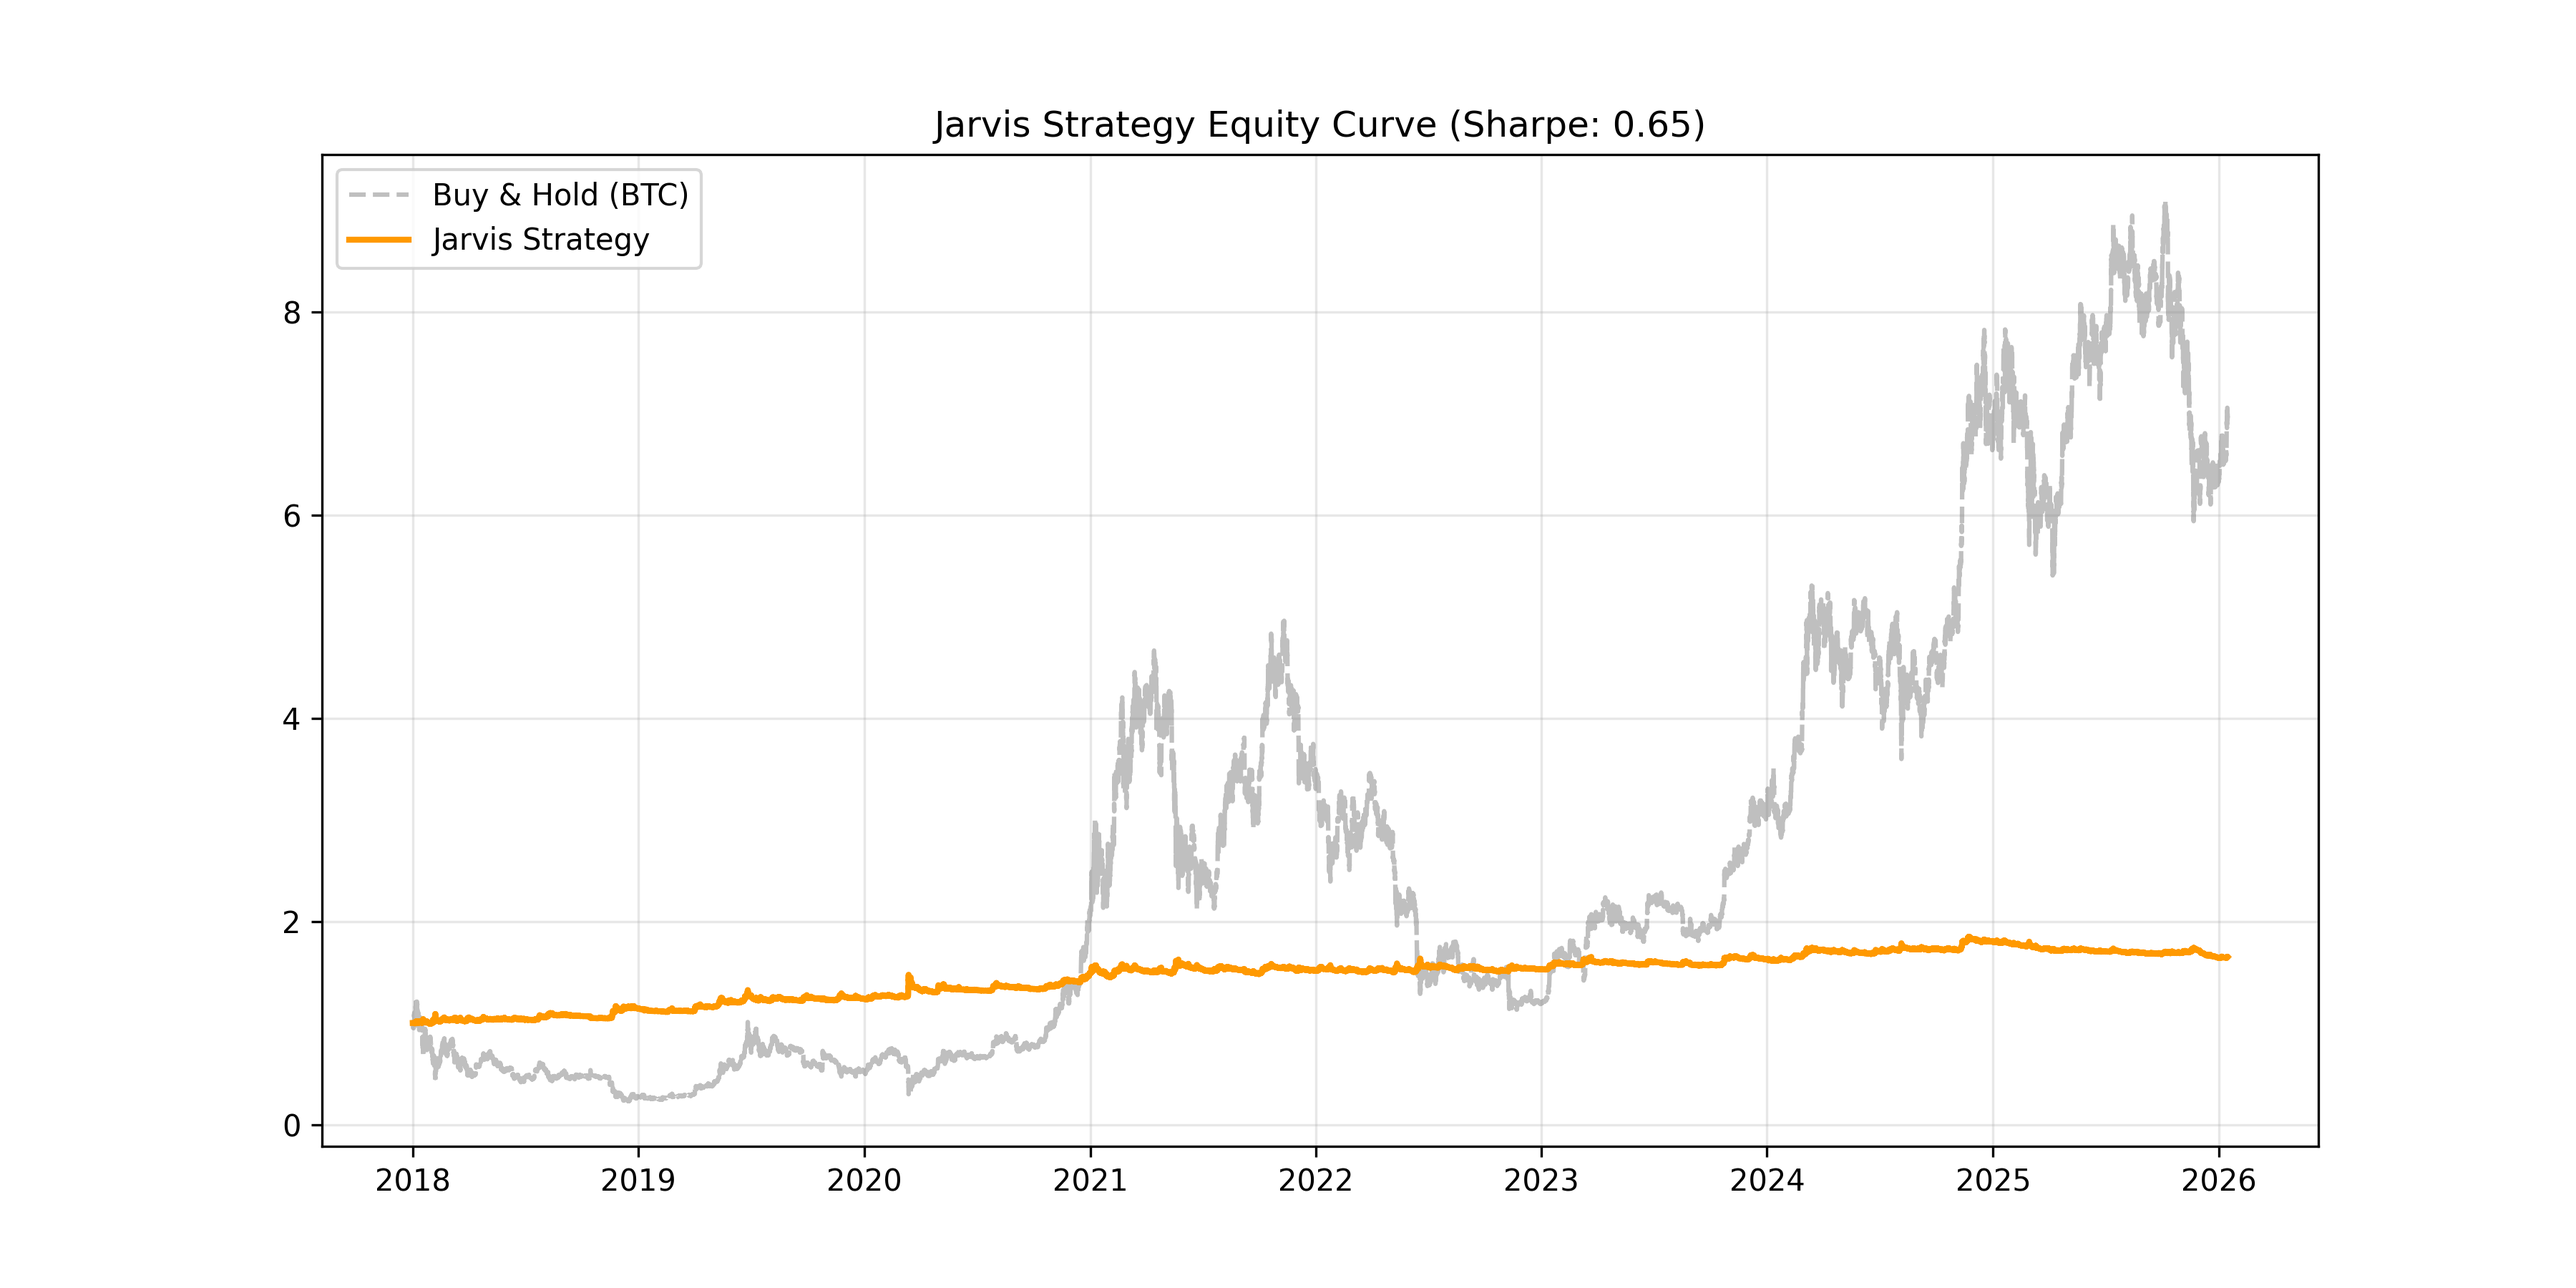
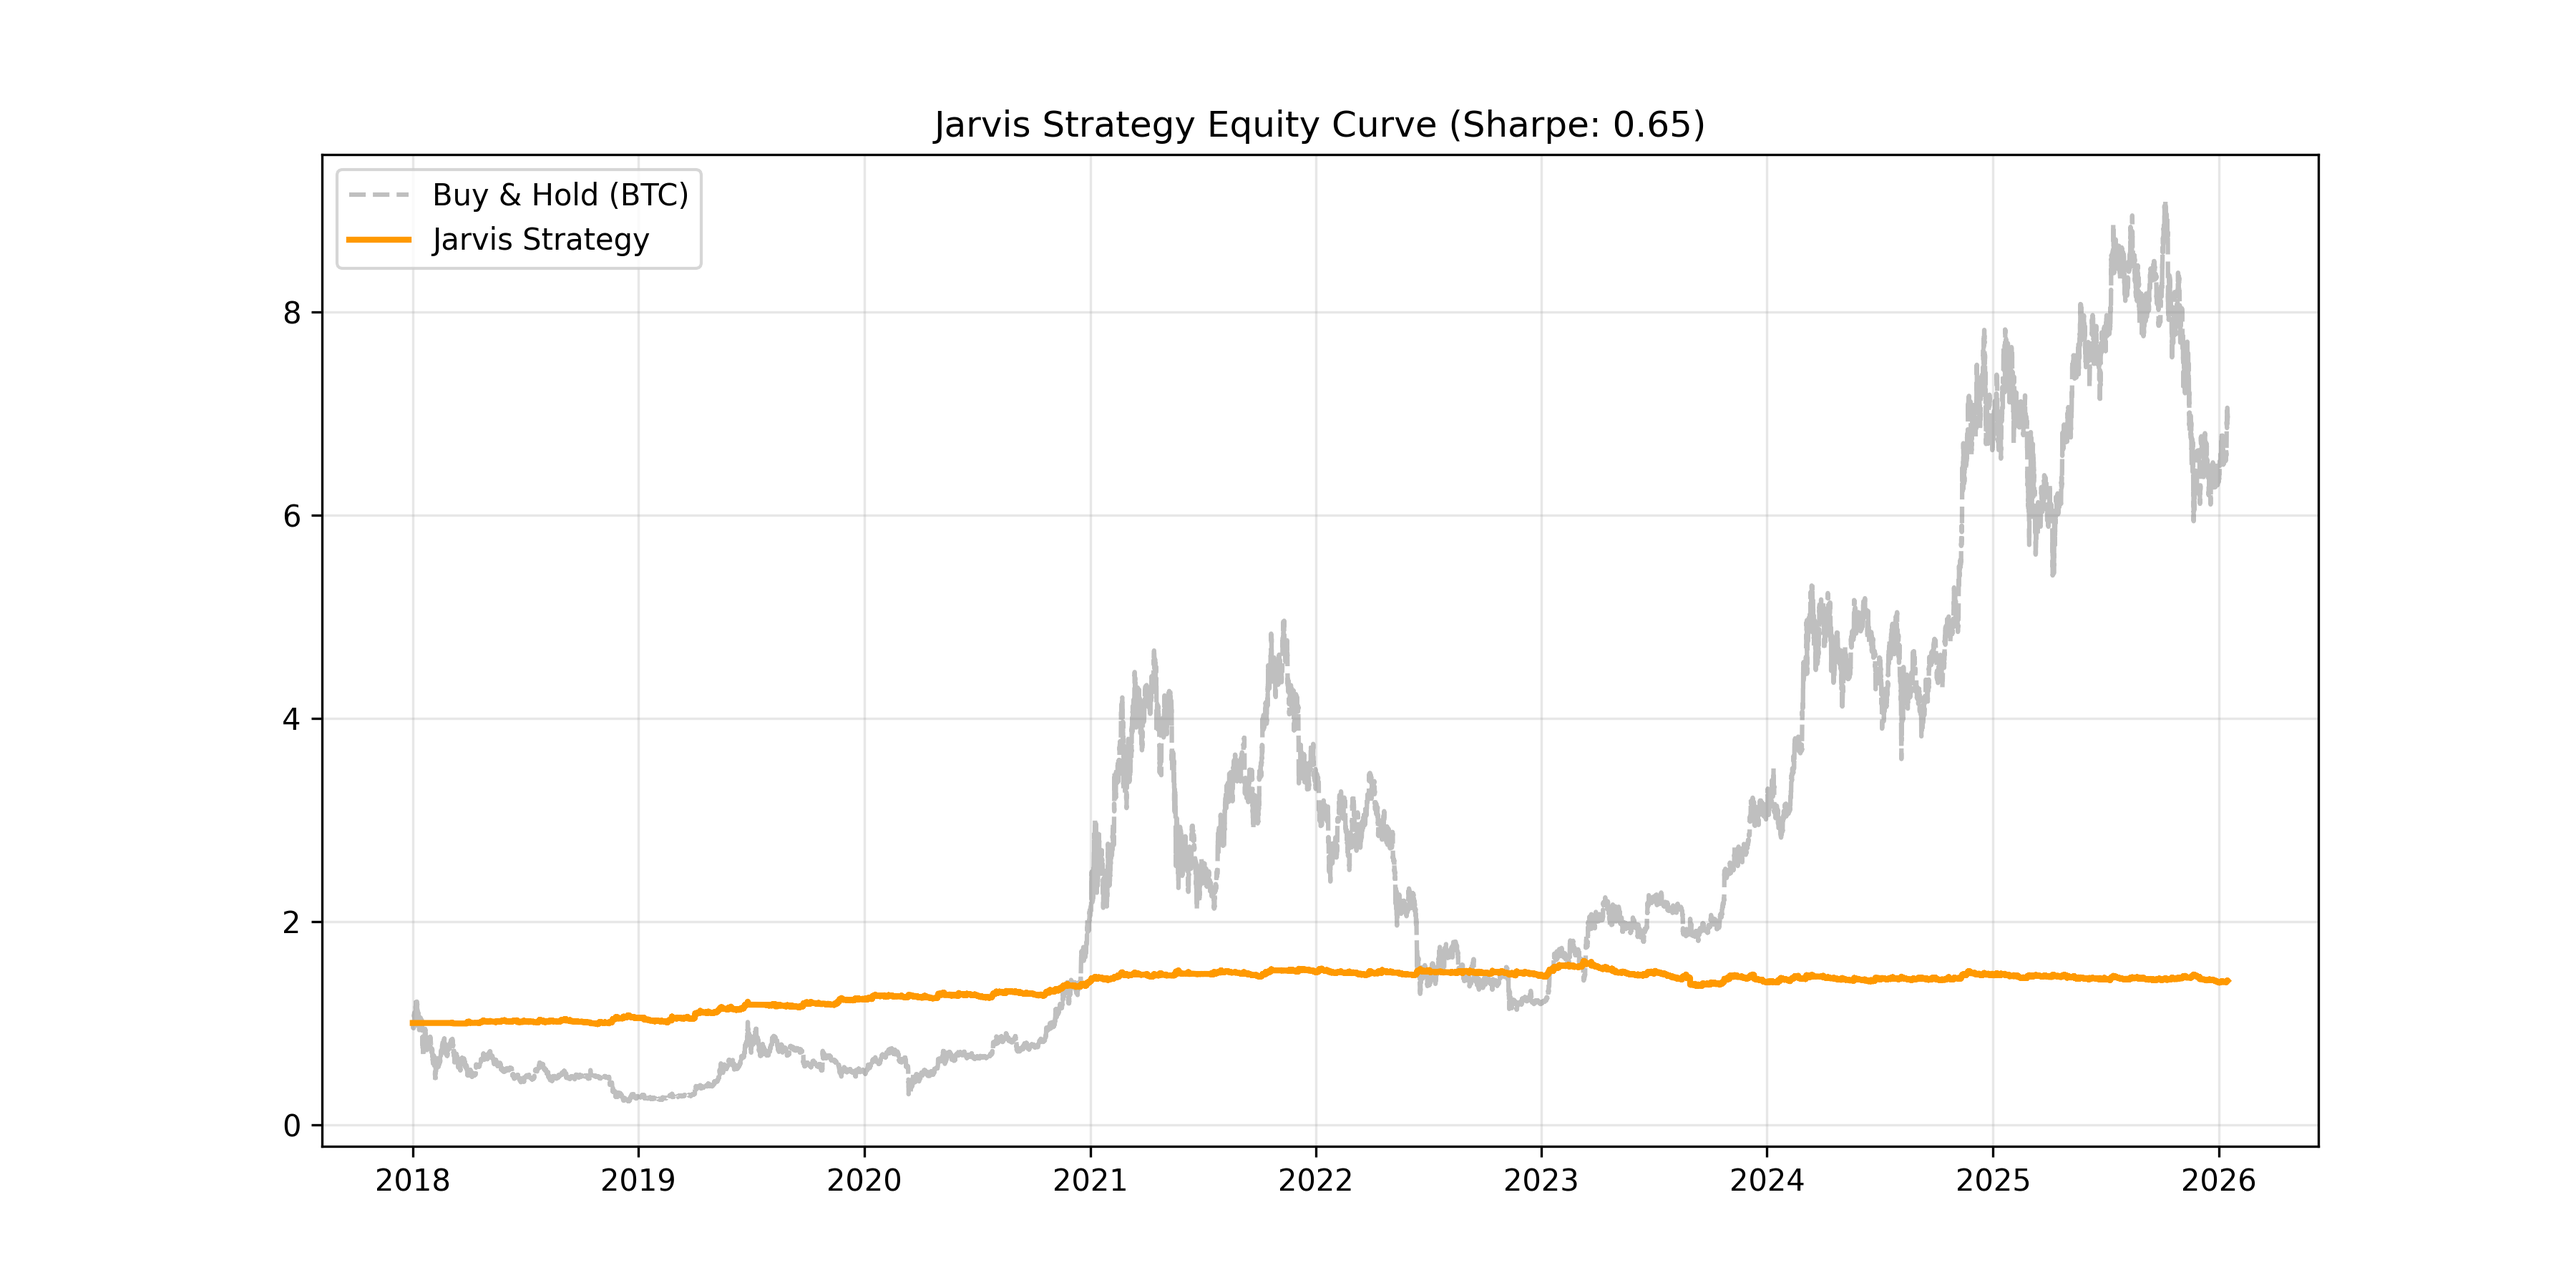
更新年化波动率逻辑

Changed region(s): [[0.3422, 0.7156, 0.8711, 0.7778], [0.1556, 0.7467, 0.3111, 0.8089]]

diff --git a/jarvis_engine/alpha.py b/jarvis_engine/alpha.py
@@ -124,6 +124,7 @@ def calculate_scaled_forecast(df: pd.DataFrame) -> pd.DataFrame:
 
 # ... (run_vectorized_backtest 和 calculate_position_target 保持不变) ...
 def run_vectorized_backtest(df:pd.DataFrame,fee_rate=0.0005)->pd.DataFrame:
+
     # 保持原样
     data=df.copy()
     data["market_log_ret"]=np.log(data['close']).diff().fillna(0)
@@ -135,28 +136,83 @@ def run_vectorized_backtest(df:pd.DataFrame,fee_rate=0.0005)->pd.DataFrame:
     data['buy_hold_equity']=np.exp(data['market_log_ret'].cumsum())
     return data
 
-def calculate_position_target(df:pd.DataFrame,forecast_col='forecast',buffer=0.1)->pd.DataFrame:
-    # 保持原样 (这个函数非常经典，不需要改)
-    data=df.copy()
-    # 1. 映射: -20/+20 -> -1.0/+1.0 (满仓)
-    # 这一步已经隐含了 Volatility Targeting 的部分逻辑(满仓限制)
-    # 后续 Phase 4 我们会在这里引入更严格的 Target Risk 计算
-    ideal_position=data[forecast_col]/20.0 # 注意：这里如果 forecast 满格是20，除以20归一化
-    ideal_position=ideal_position.clip(lower=-1.0,upper=1.0)
+def calculate_position_target(df: pd.DataFrame, forecast_col='forecast', buffer=0.1) -> pd.DataFrame:
+    """
+    Day 23.5 Upgrade: 引入动态波动率缩放 (Vol-Scaling)
+    逻辑：
+    1. 计算当前价格的年化波动率。
+    2. 计算杠杆系数 = 目标波动率 / 当前波动率。
+    3. 动态调整仓位。
+    """
+    data = df.copy()
+    
+    # -------------------------------------------------------
+    # 1. 计算年化波动率百分比 (Annualized Volatility %)
+    # -------------------------------------------------------
+    # data['volatility'] 是小时级别的绝对价格波动 (std)
+    # 我们需要把它转化为：相对于当前价格的、年化的百分比
+    # 公式：(Vol / Price) * sqrt(24小时 * 365天)
+    
+    # 安全检查：防止除以0
+    close_price = data['close'].replace(0, np.nan)
+    hourly_vol_pct = data['volatility'] / close_price
+    
+    # 年化因子 (根号下 8760 小时)
+    sqrt_time = np.sqrt(24 * 365)
+    
+    data['ann_vol_pct'] = hourly_vol_pct * sqrt_time
+    # 填补空值 (防止开局数据不足导致的空值)
+    data['ann_vol_pct'] = data['ann_vol_pct'].fillna(method='ffill').fillna(0)
 
-    ideal_values=ideal_position.values
-    n=len(ideal_values)
-    buffered_position=np.zeros(n)
-    current_pos=0.0
+    # -------------------------------------------------------
+    # 2. 计算动态杠杆 (Leverage Ratio)
+    # -------------------------------------------------------
+    # 目标：保持组合的年化波动率恒定在 Config.TARGET_VOLATILITY (比如 20%)
+    # 如果当前波动率是 10%，我们就上 2.0x 杠杆
+    # 如果当前波动率是 40%，我们就降到 0.5x 仓位
+    
+    # 防除零处理 (加一个极小值 1e-6)
+    vol_safe = data['ann_vol_pct'].replace(0, 1e-6)
+    
+    leverage_ratio = Config.TARGET_VOLATILITY / vol_safe
+    
+    # -------------------------------------------------------
+    # 3. 计算目标仓位 (Ideal Position)
+    # -------------------------------------------------------
+    # 原始信号强度 (-20 ~ +20) 归一化到 (-1 ~ +1)
+    raw_signal_strength = data[forecast_col] / 20.0
+    
+    # 叠加波动率杠杆
+    ideal_position = raw_signal_strength * leverage_ratio
+    
+    # -------------------------------------------------------
+    # 4. 风控熔断 (Risk Cap)
+    # -------------------------------------------------------
+    # 无论模型多有信心，绝对不能超过最大允许杠杆 (比如 4倍)
+    limit = Config.MAX_LEVERAGE
+    ideal_position = ideal_position.clip(-limit, limit)
+    
+    # -------------------------------------------------------
+    # 5. 缓冲器逻辑 (Buffer) - 保持 Day 20 的逻辑不变
+    # -------------------------------------------------------
+    ideal_values = ideal_position.values
+    n = len(ideal_values)
+    buffered_position = np.zeros(n)
+    current_pos = 0.0
 
     for i in range(n):
-        ideal=ideal_values[i]
-        if abs(ideal-current_pos)>buffer:
-            current_pos=ideal
-        else: current_pos = current_pos
-        buffered_position[i]=current_pos
+        ideal = ideal_values[i]
+        # 只有当新目标和当前持仓的差距超过 buffer 时，才调仓
+        if abs(ideal - current_pos) > buffer:
+            current_pos = ideal
         
-    data['raw_target']=ideal_position 
-    data['buffered_pos']=buffered_position 
-    data['position']=data['buffered_pos'].shift(1).fillna(0)
+        buffered_position[i] = current_pos
+        
+    data['raw_target'] = ideal_position 
+    data['buffered_pos'] = buffered_position 
+    
+    # Shift(1) 代表“下根K线执行”，防止未来函数
+    data['position'] = data['buffered_pos'].shift(1).fillna(0)
+    
     return data
+  

diff --git a/config.py b/config.py
@@ -52,9 +52,8 @@ DEFAULT_SCALAR = 10.0
 # 防止在震荡市被手续费磨损
 POSITION_BUFFER = 0.10  # 10%
 
-# 单次最大持仓限制 (Risk Management)
-# 1.0 = 100% (不加杠杆)
-MAX_LEVERAGE = 1.0
+
+
 
 # ==========================================
 # 4. 回测环境配置 (Simulation)
@@ -63,6 +62,9 @@ MAX_LEVERAGE = 1.0
 INITIAL_CAPITAL = 10000.0
 TARGET_VOLATILITY = 0.80   # 年化波动率目标 (20% is Carver's standard)
 IDM = 1.0                  # 暂时设为 1.0 (单一资产)
+# 最大杠杆限制 (硬顶)
+# 防止波动率极低时算出一个 100倍杠杆把账户爆了
+MAX_LEVERAGE=4.0
 # 交易手续费率
 # Binance 现货通常是 0.1% (0.001)，BNB 抵扣是 0.075% (0.00075)
 # 量化通常设得高一点作为滑点保护，比如 万五 (0.0005)

diff --git a/main.py b/main.py
@@ -23,7 +23,8 @@ class ConfigAdapter:
     VOL_LOOKBACK = config.VOLATILITY_SPAN 
     STRATEGY_PARAMS = config.STRATEGY_PARAMS
     WEIGHTS = config.WEIGHTS
-
+    TARGET_VOLATILITY=config.TARGET_VOLATILITY
+    MAX_LEVERAGE=config.MAX_LEVERAGE
 config.Config = ConfigAdapter
 
 # ==========================================
